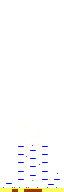
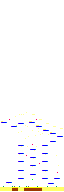
Super Santa - Babies don't pay taxes

diff --git a/docs/js/Canvas.js b/docs/js/Canvas.js
@@ -136,20 +136,20 @@ class Canvas {
             this.uiCtx.fillStyle = "black";
             this.uiCtx.font = '40px sans-serif';
             this.uiCtx.textAlign = "center";
-            this.uiCtx.fillText("Congratulations, you " + state.status + "! Press space to continue", width / 2, height / 2 - 40);
+            this.uiCtx.fillText("Congratulations, you " + state.status + "! Christmas has been saved!", width / 2, height / 2 - 40);
         } else if (state.status == "lost") {
             this.uiCtx.clearRect(0, 0, 200, 200);
             this.uiCtx.fillStyle = "black";
             this.uiCtx.font = '40px sans-serif';
             this.uiCtx.textAlign = "center";
-            this.uiCtx.fillText("Unlucky, you " + state.status + ". Press space to continue", width / 2, height / 2 - 40);
+            this.uiCtx.fillText("Unlucky, you " + state.status + ". Press space to try again", width / 2, height / 2 - 40);
         } else {
             this.uiCtx.clearRect(0, 0, 300, 100);
             this.uiCtx.fillStyle = "white";
             this.uiCtx.font = '20px sans-serif';
             this.uiCtx.fillText("HEALTH: "+ state.health + " /100", 20, 20);
             this.uiCtx.font = '14px sans-serif';
-            this.uiCtx.fillText("Presents: " + state.score + "/" + state.itemCount, 20, 40);
+            this.uiCtx.fillText("Presents (gathered/remaining): " + state.score + "/" + state.itemCount, 20, 40);
         }
     }
 

diff --git a/docs/js/map.js b/docs/js/map.js
@@ -125,7 +125,7 @@ let sources = {
         width: 352,
         height: 288,
         offsetX: 0,
-        offsetY: 32,
+        offsetY: 320,
         repeat: "repeat-x"
     },
     mountain: {
@@ -134,17 +134,17 @@ let sources = {
         srcHeight: 320,
         width: 160,
         height: 320,
-        offsetX: 384,
-        offsetY: 0
+        offsetX: 0,
+        offsetY: 160
     },
     cloud: {
         src: 'img/sprites/cavedude_side2.png',
-        srcWidth: 224,
-        srcHeight: 96,
+        srcWidth: 96,
+        srcHeight: 128,
         width: 224,
         height: 96,
-        offsetX: 0,
-        offsetY: 320
+        offsetX: 79.5,
+        offsetY: 329
     },
     cloud2: {
         src: 'img/sprites/cavedude_side2.png',

diff --git a/docs/js/Player.js b/docs/js/Player.js
@@ -3,7 +3,7 @@ class Player
     constructor(pos, speed, prevX, prevY, facing)
     {
         this.pos = pos;
-        this.size = new Vector(2, 2);
+        this.size = new Vector(2, 3);
         this.speed = speed;
         this.xOverlap = 4;
         this.xSpeed = 12;
